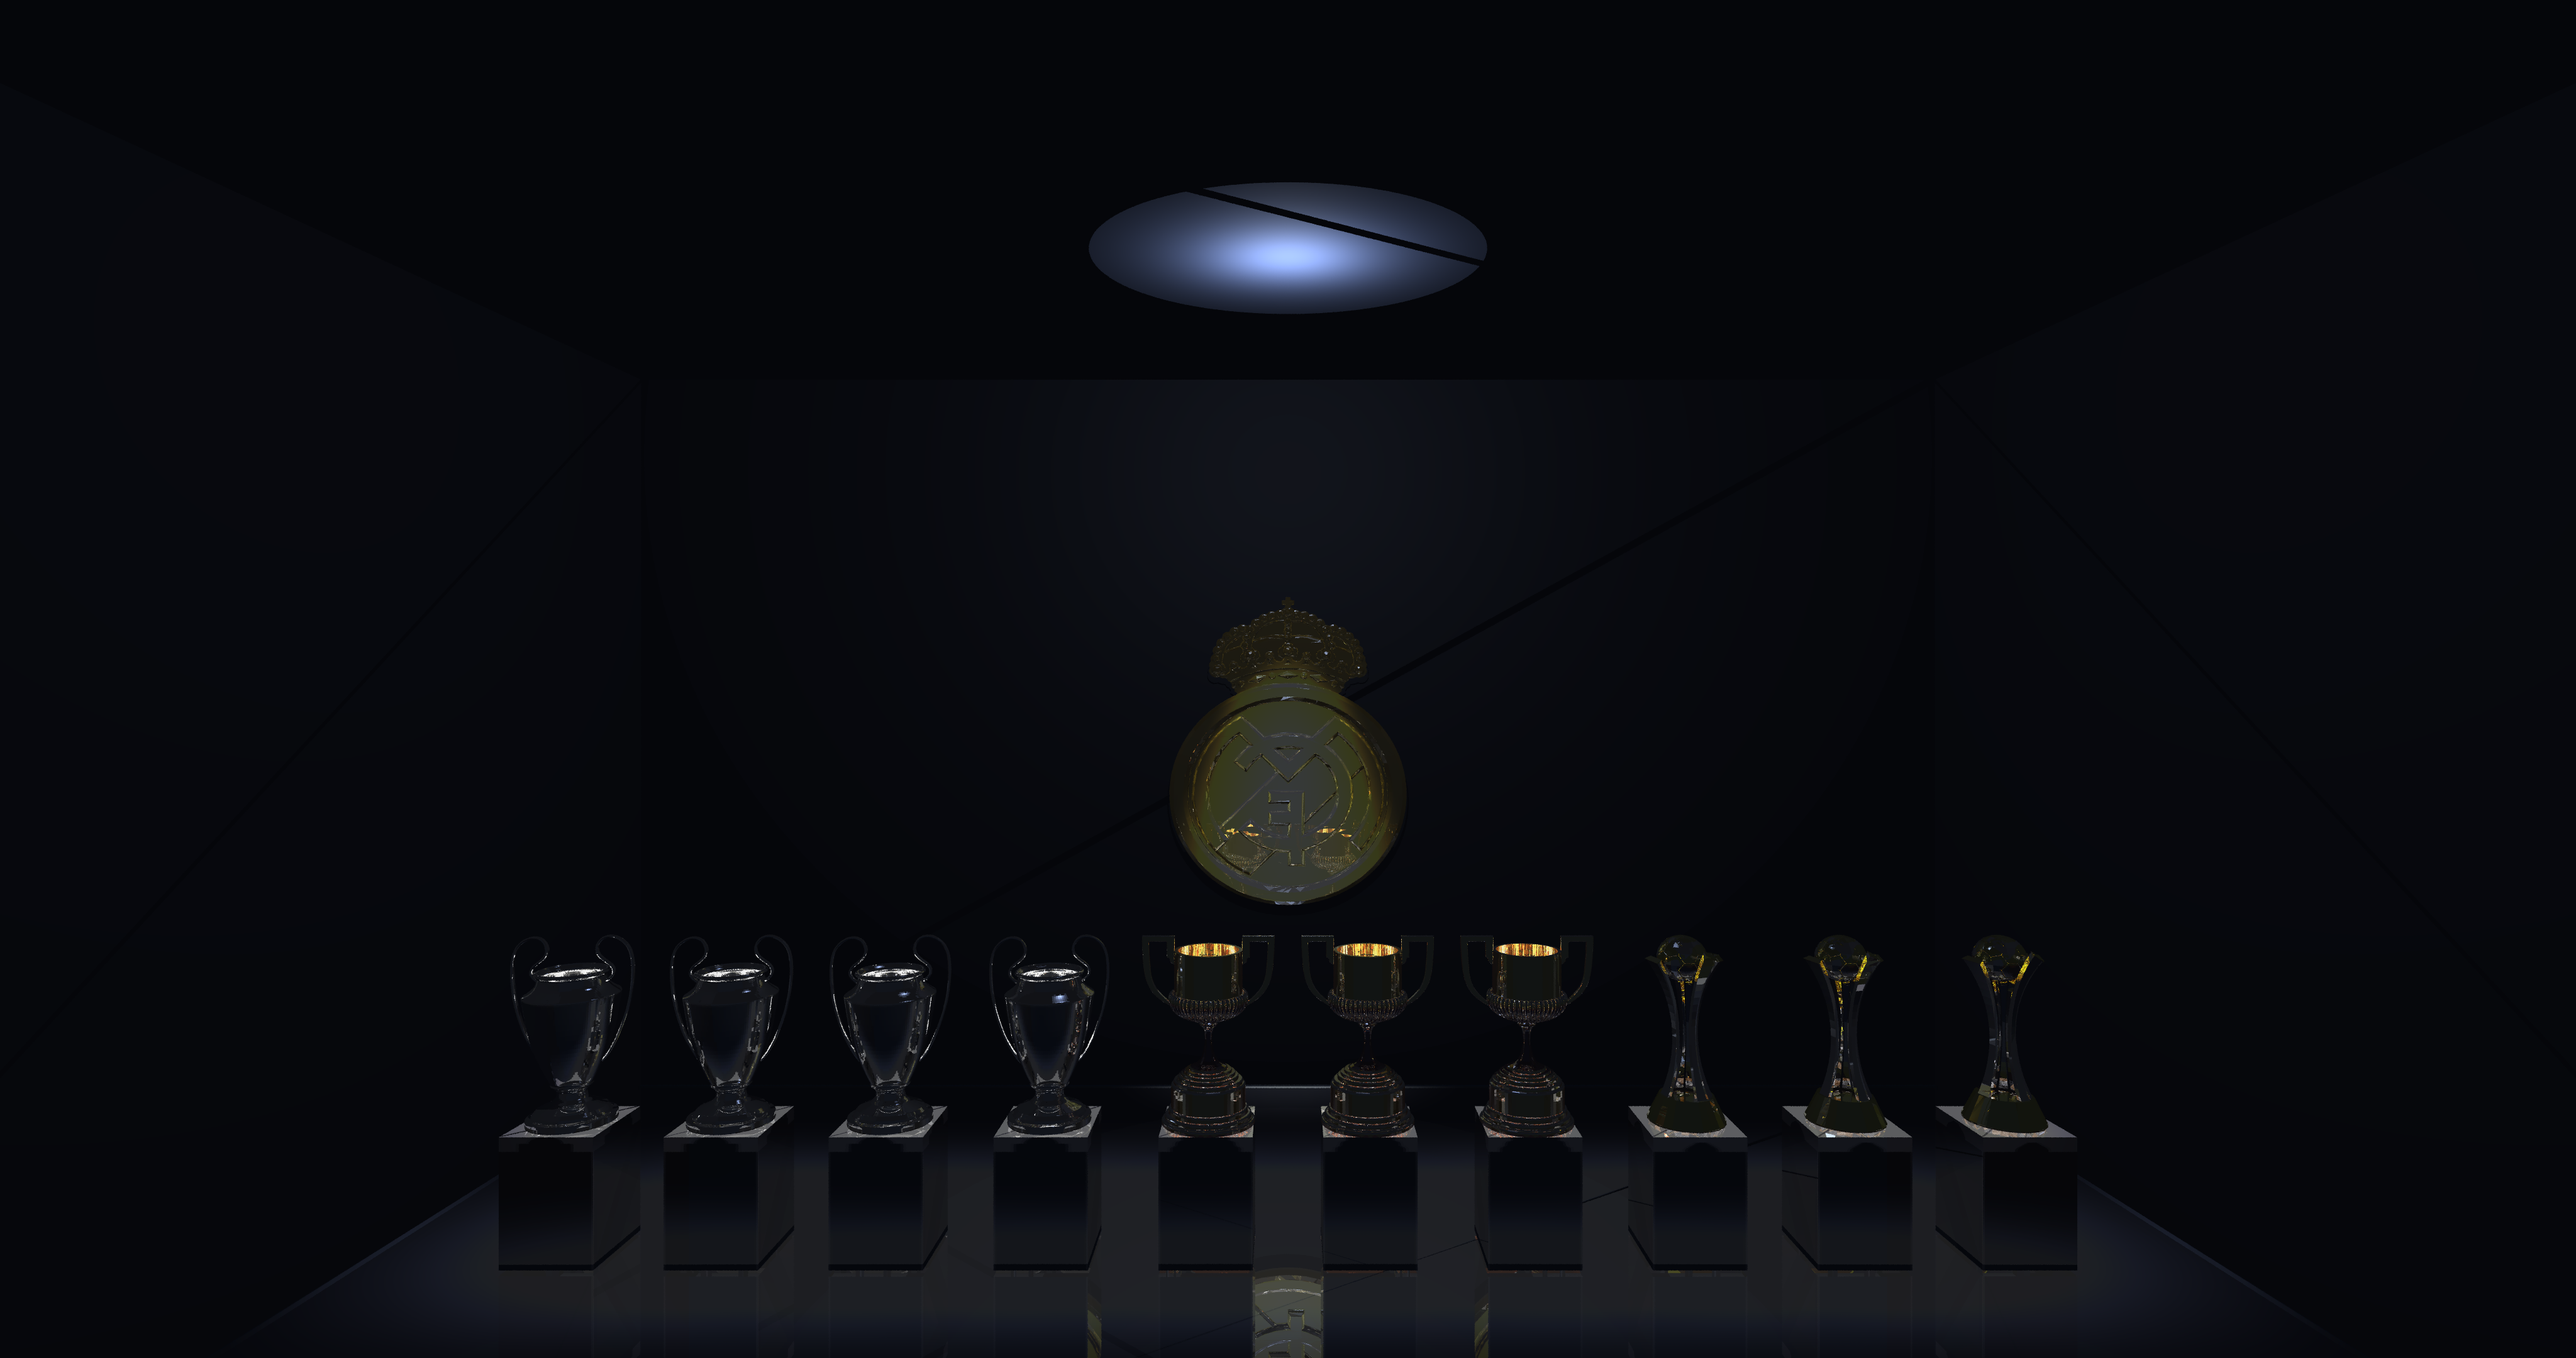
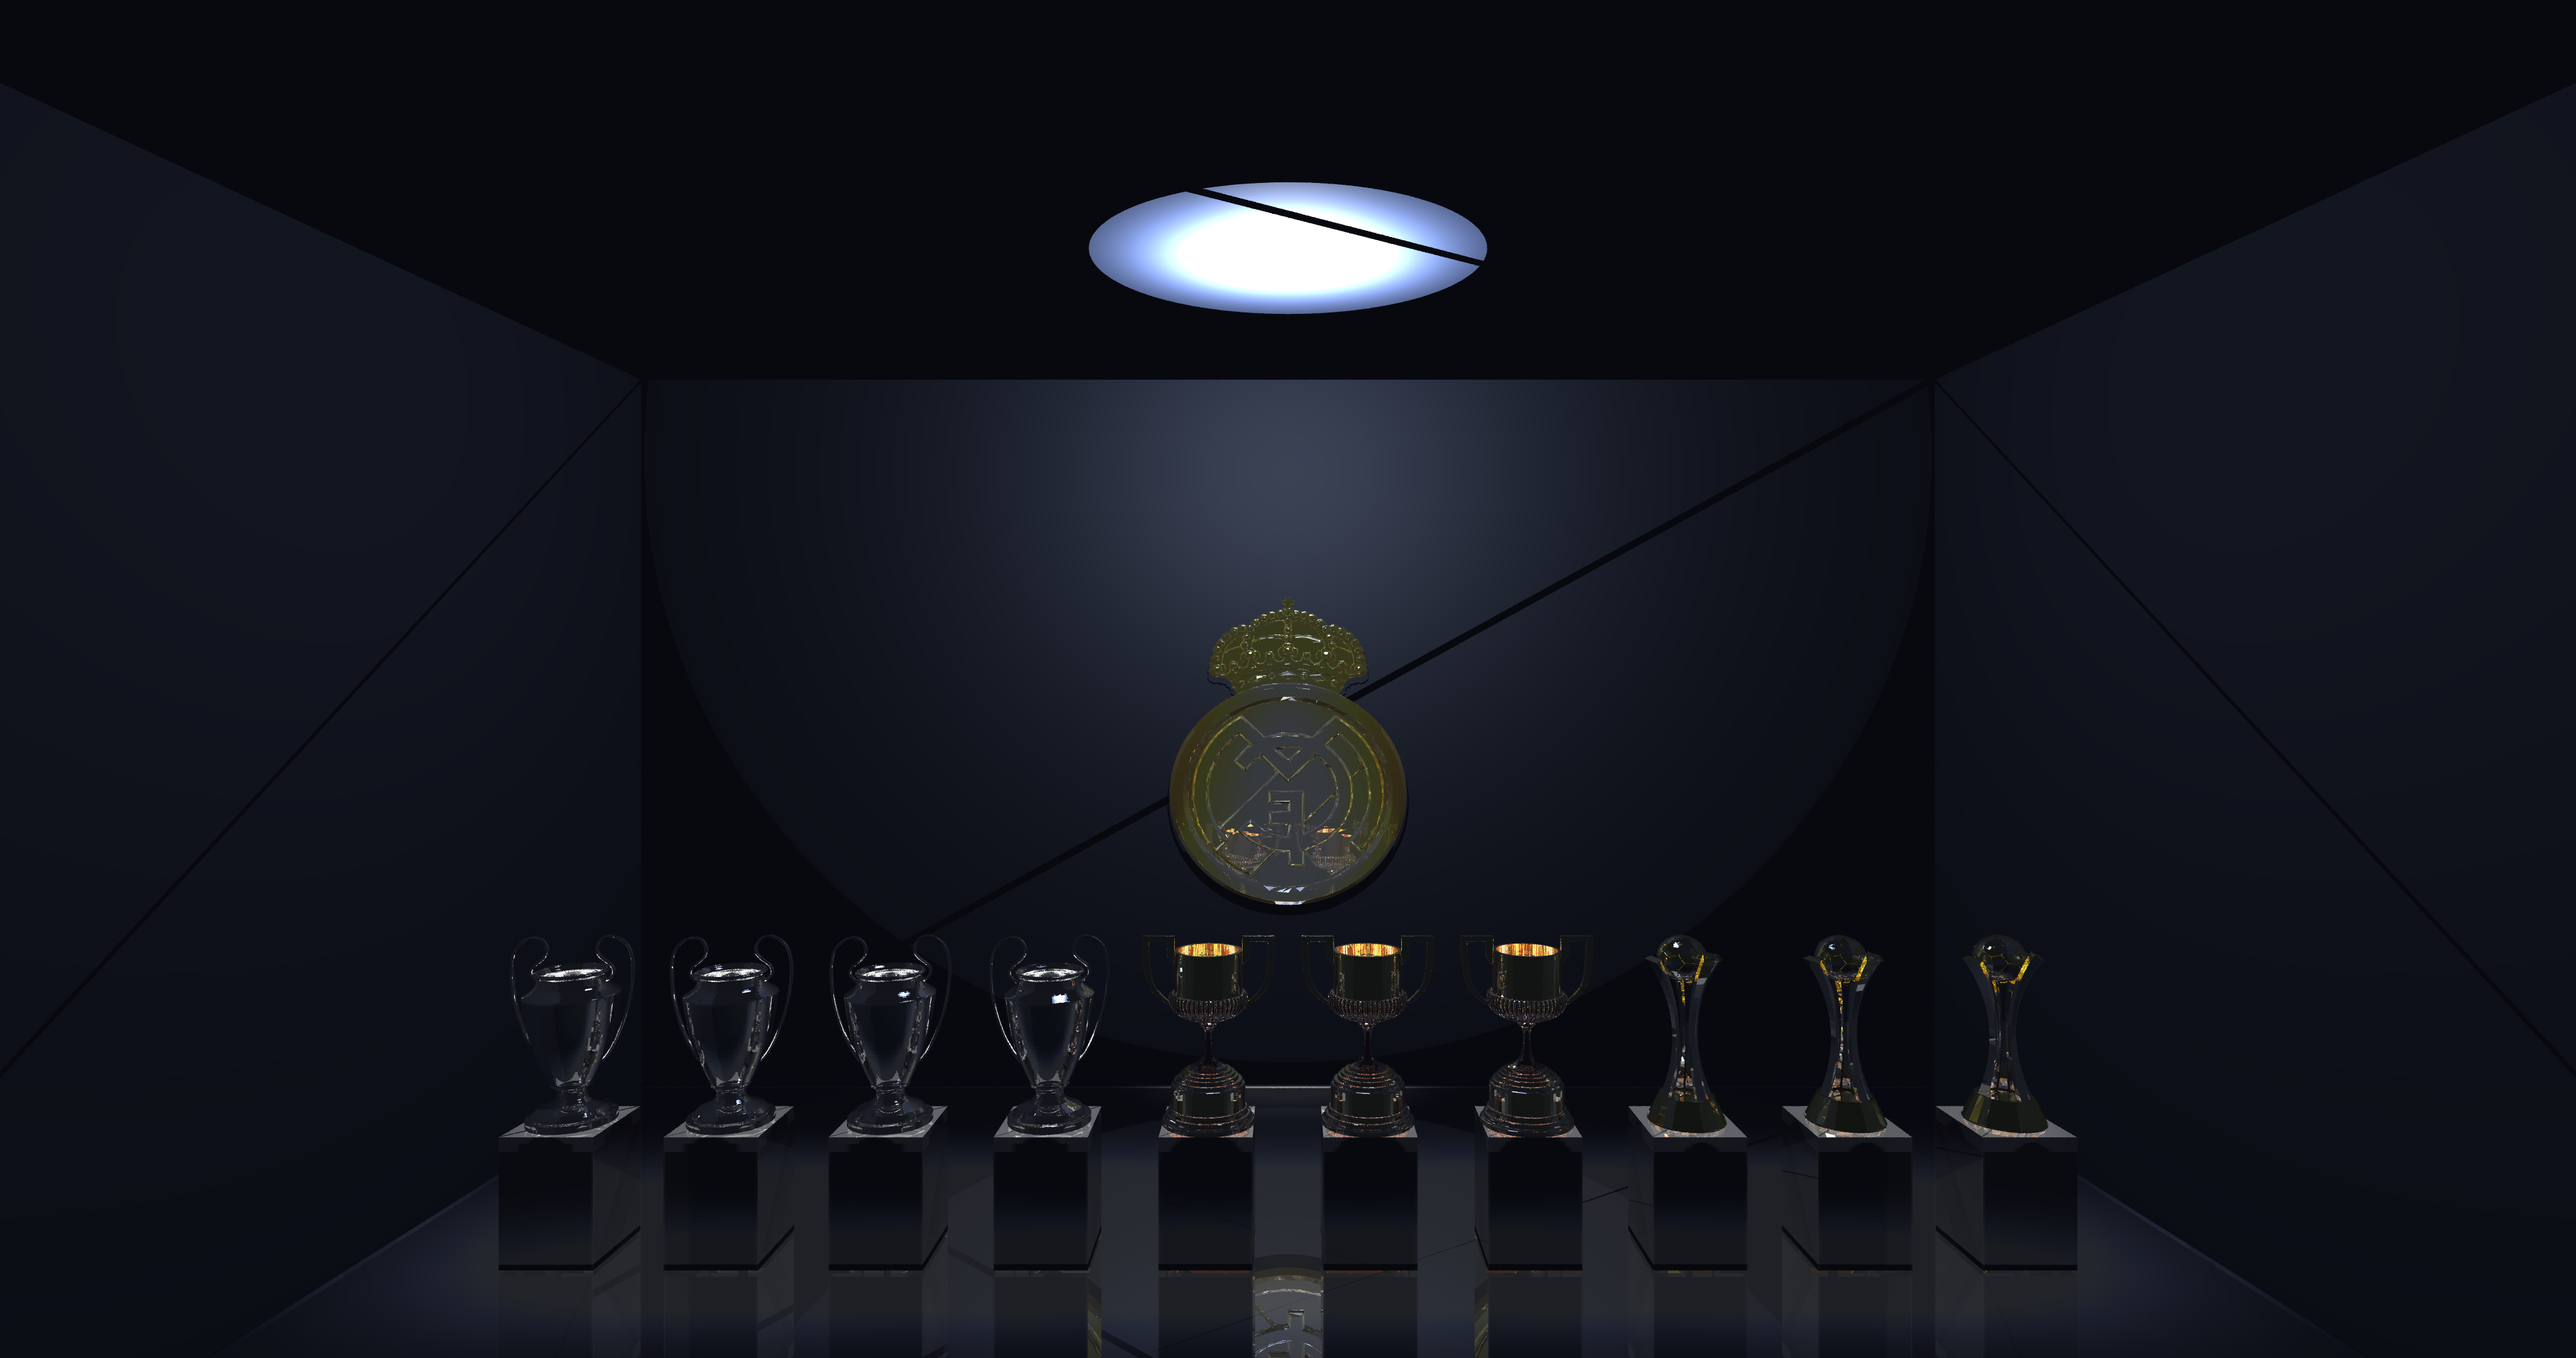
Changed Lights for presentation

diff --git a/RayTracerFinalRender02/src/RayTracer.java b/RayTracerFinalRender02/src/RayTracer.java
@@ -125,16 +125,16 @@ public class RayTracer {
                 new Color(255, 250, 220), 18.0, 30.0));
         }
         scene.setBackgroundColor(new Color(5, 8, 15));
-        scene.setAmbient(0.30);
+        scene.setAmbient(0.45);
 
         scene.addLight(new PointLight(
             new Vector3D(0, ceilY-0.8, trophyZ),
-            new Color(255, 248, 220), 5.0));
+            new Color(255, 248, 220), 20.0));
 
         scene.addLight(new SpotLight(
             new Vector3D(0, ceilY-0.5, Z1-1.5),
             new Vector3D(0, -0.2, Z1-0.12),
-            new Color(255, 240, 180), 15.0, 35.0));
+            new Color(255, 240, 180), 15.0, 45.0));
 
         BVH bvh = BVH.build(scene.objects);
         int[] pixels = new int[width * height];
